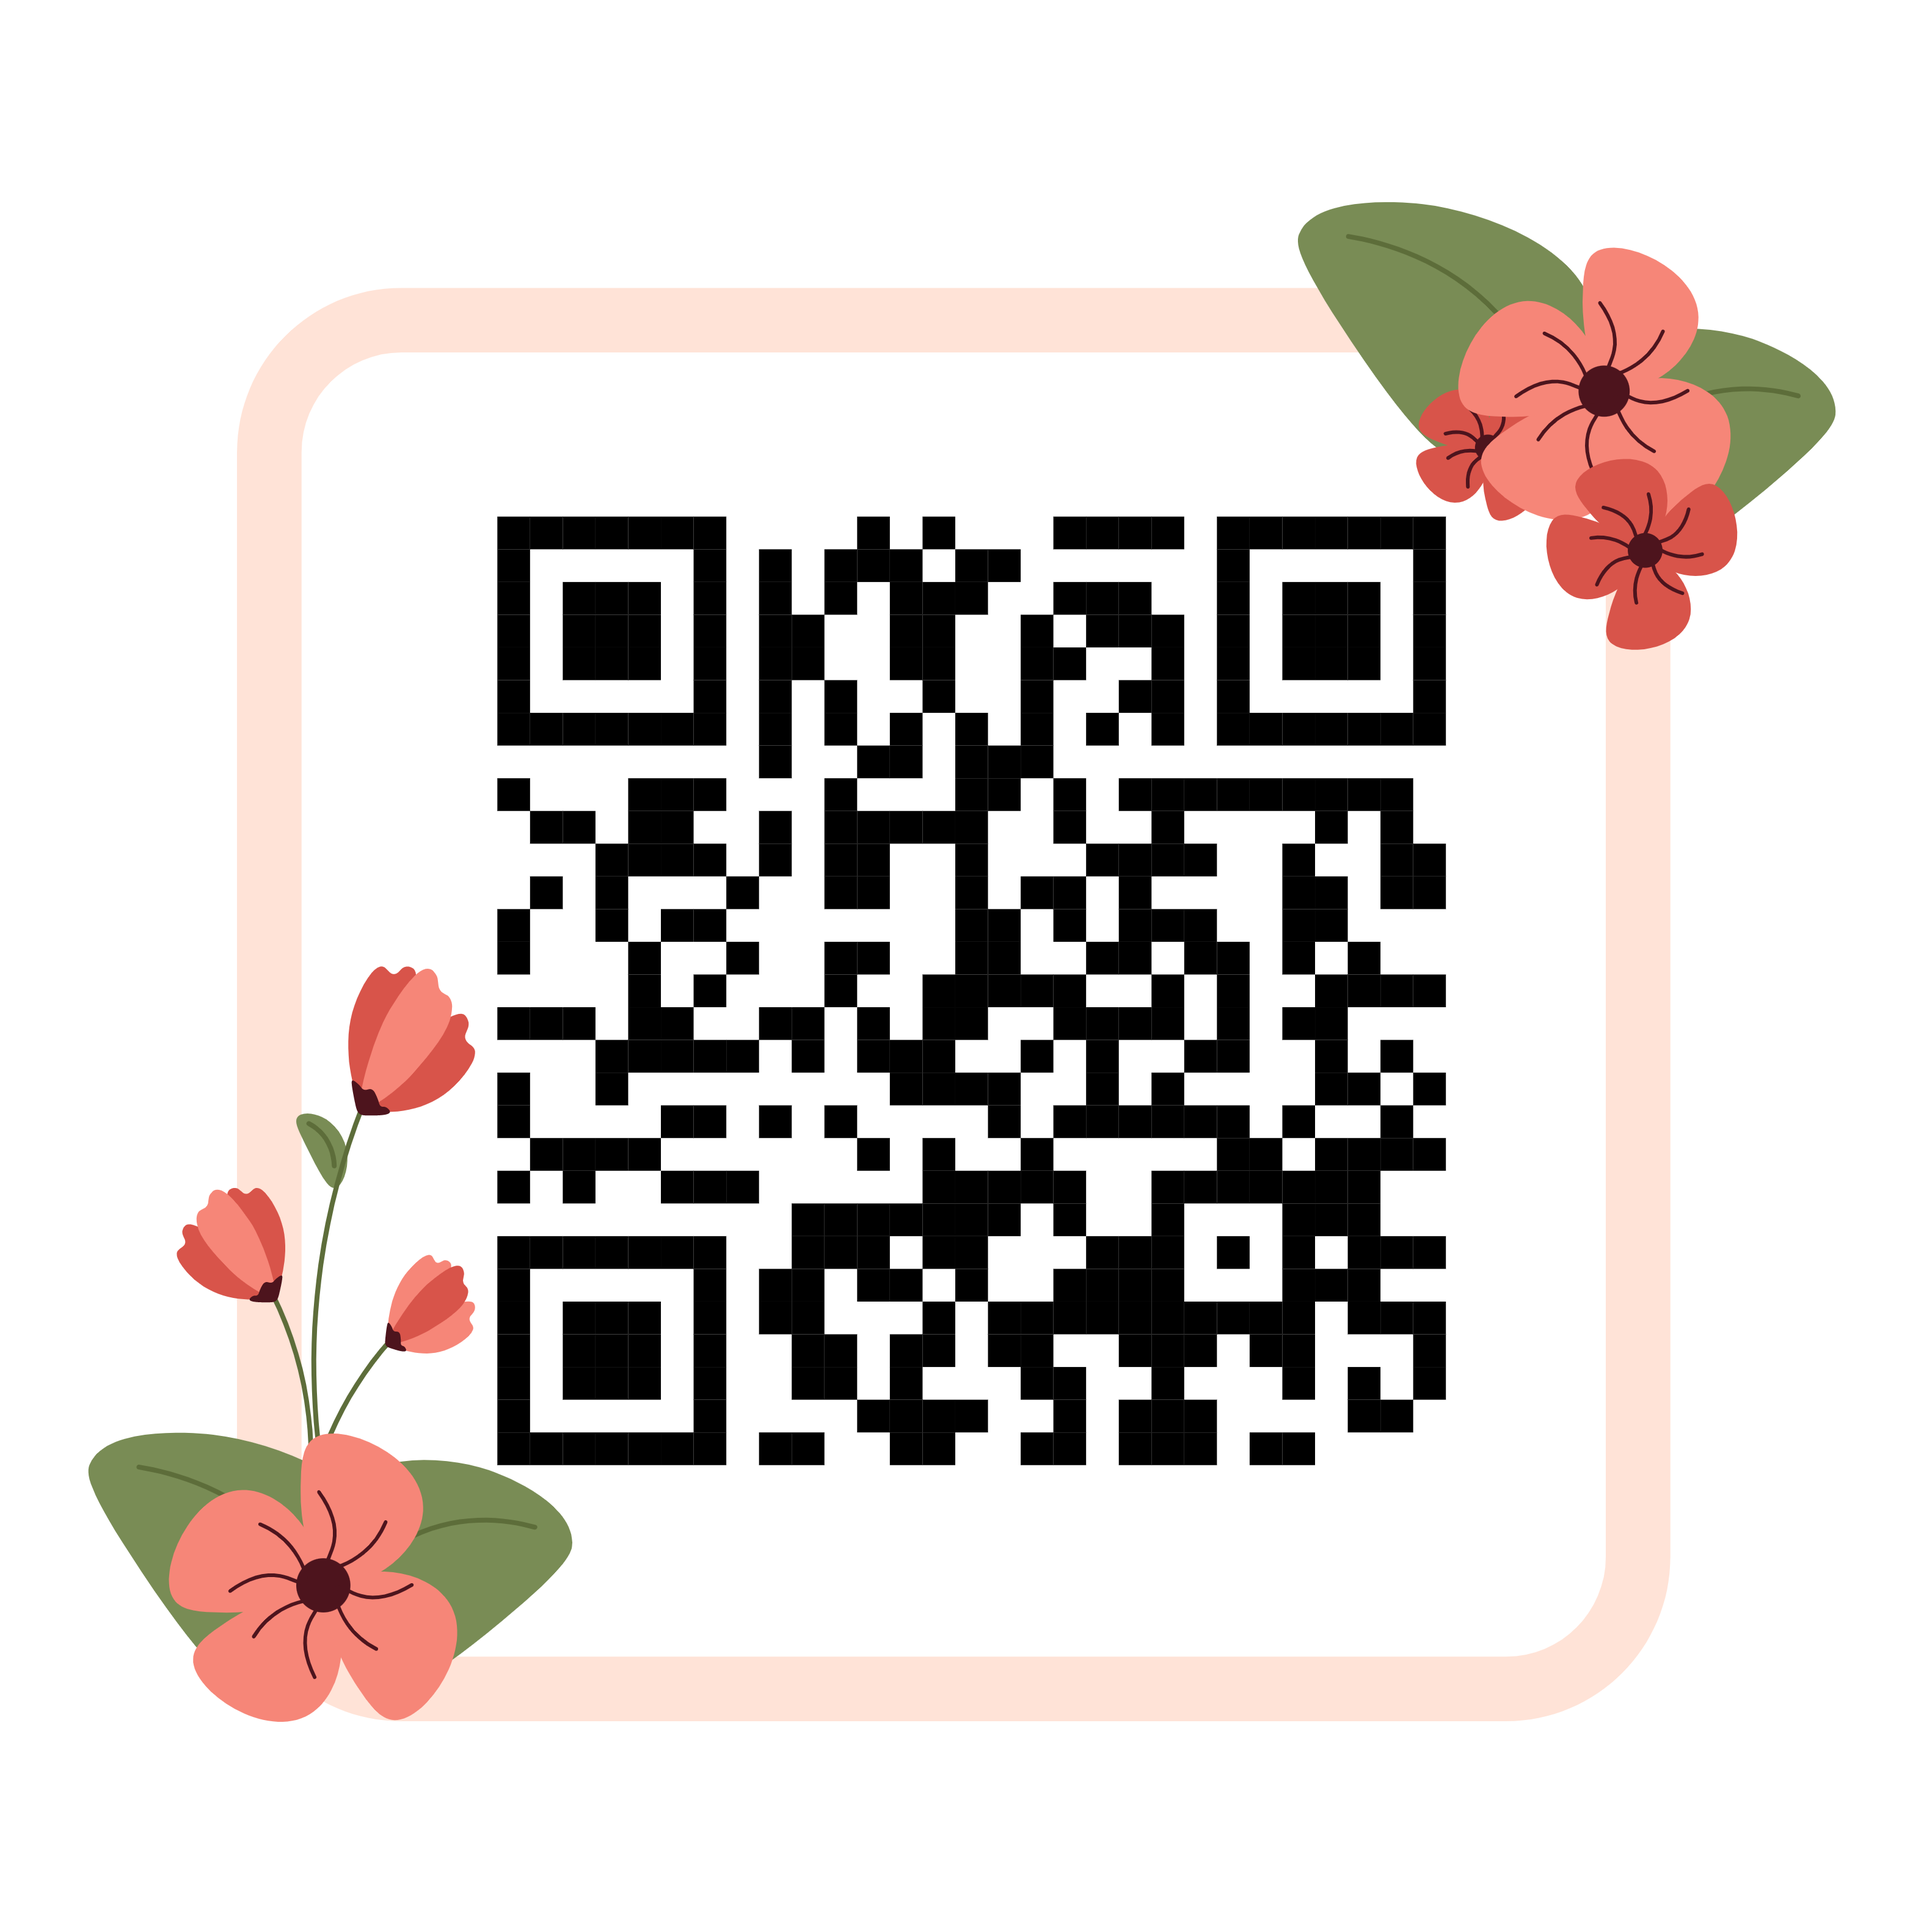
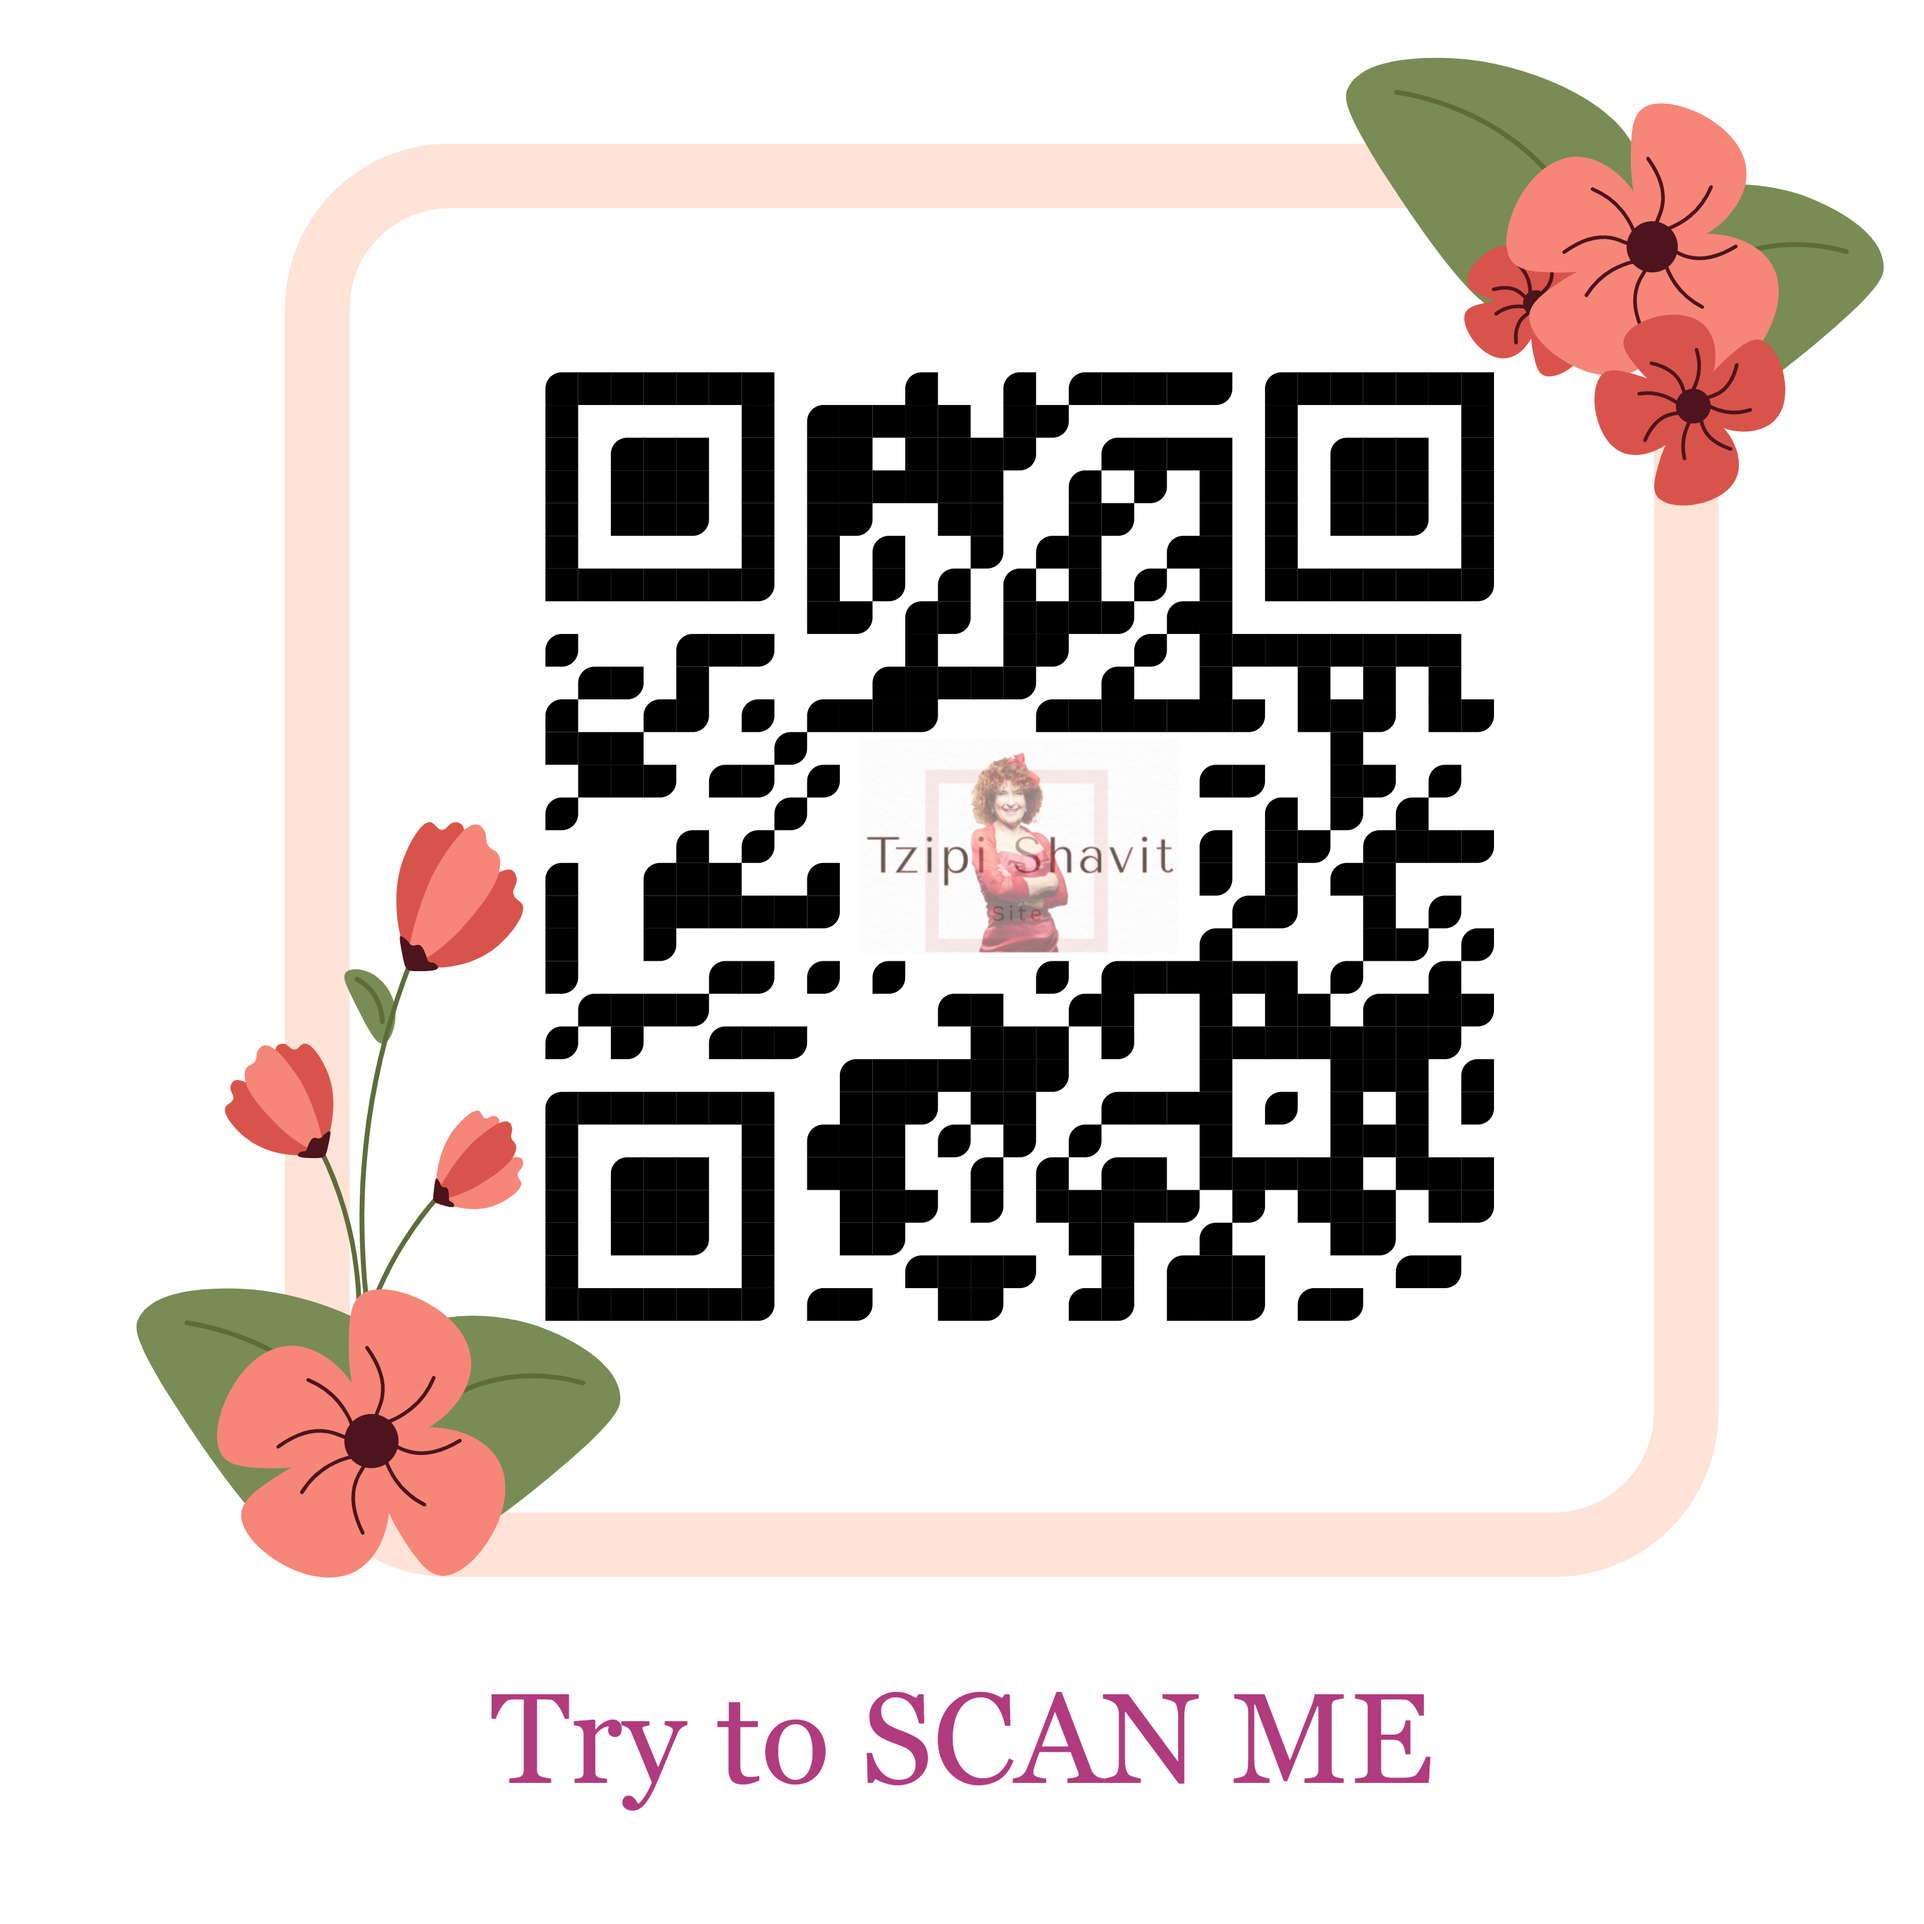
fix

diff --git a/index.html b/index.html
@@ -2,9 +2,15 @@
 <html>
 <head>
 <link rel="stylesheet" type="text/css" href="style.css" />
+<link rel="stylesheet" href="https://cdnjs.cloudflare.com/ajax/libs/emojionearea/3.4.2/emojionearea.min.css" />
 </head>
 <body>
+<style>
+  body{
+    background-color:rgba(245, 218, 223, 0.454) ;
+  } </style>
 <div id="menu">
+<img class="img" src="pictures\logo.jpg">
 <li><a href="#about">About Me</a></li>
 <li><a href="#photos">My Photos</a></li>
 <li><a href="#playlist">My Playlist</a></li>
@@ -15,24 +21,104 @@
 </div>
 		  
 <section id="about" class="section">
+  <br/>
+  <br/>
+  <br/>
+  <br/>
 <div>
   <h1>
     About Me
   </h1>
 </div>
-<br/>
-<br/>
-<br/>
+<p dir="rtl">שלום לכולם, קוראים לי ציפי שביט, בעברית - ציפורה. אני שחקנית, קומיקאית, סטנדאפיסטית, מדבבת, זמרת, מנחת טלוויזיה וכוכבת ילדים (עושה הרבה בחיים...).
+  <br/>
+  נולדתי ב-1 באפריל בשנת 1947, ויש לי פרס מפעל חיים של האקדמיה הישראלית לקולנוע וטלוויזיה בתחום הילדים והנוער!
+  מקום הולדתי הוא קיבוץ נווה ים, אמא שלו זו לאורה ואבא שלי זה משה, משפחת שביט. 
+  <br/>
+  בצבא שירתתי בצוות הווי של פיקוד דרום, וזמן לא רב לאחר שחרורי, לאחר שהשתתפתי בסרט "השכונה שלנו", שיבץ אותי אברהם דשא (פשנל) בהצגת הבידור "דבר מצחיק קרה לי בסואץ" - זה היה בשנת 1968.
+  <br/>
+   זו הצגה שכתב המפיק שאול ביבר, אך היא ירדה בגלל מחאה של משפחה שכולה.
+  לאט לאט השתתפתי ביותר ויותר מופעים והצגות, אפילו פרסמתי תקליטים.
+  <br/>
+  החל מאמצע שנות ה-70, שנות ה-80 ובמהלך שנות ה-90 כבר נחשבתי לכוכבת ילדים גדולה ומצליחה בישראל! את חלקם מהתקליטים אתם בטח מכירים... בילבי,ציפי קונץ וכו'.
+  <br/>
+  אפילו השתתפתי ב5 פסטיגלים, והנחתי פעמיים. יש לי שיר שבטח כולכם תכירו - ברבאבא, אני אוהבת אותו מאוד!
+  <br/>
+  עד היום אני מככבת ואוהבת להצטלם ולהפיץ אור, אהבה ובעיקר שמחת חיים, שתמיד נזכה לטוב, ונעריך את החיים שלנו!
+</p>
 </section>
 
 <section id="photos" class="section">
-
+<br/>
+<br/>
 <br/>
 <br/>
 <div>
   <h1>
     My Photos
   </h1>
+  <p dir="rtl">
+    לחצו על מנת לפתוח את התמונות במסך חדש!
+  </p>
+  <div class="gallery">
+    <a target="_blank" href="pictures\me.jpg">
+      <img src="pictures\me.jpg" alt="Cinque Terre" width="600" height="400">
+    </a>
+    <div class="desc" style= "font-family:tahoma">אני בצילומים</div>
+  </div>
+  
+  <div class="gallery">
+    <a target="_blank" href="pictures\me2.jpg">
+      <img src="pictures\me2.jpg" alt="Forest" width="600" height="400">
+    </a>
+    <div class="desc" style= "font-family:tahoma">אני נחה במרפסת</div>
+  </div>
+  
+  <div class="gallery">
+    <a target="_blank" href="pictures\family.jpg">
+      <img src="pictures\family.jpg" alt="Northern Lights" width="600" height="400">
+    </a>
+    <div class="desc" style= "font-family:tahoma">אני עם בתי והנכדה</div>
+  </div>
+  
+  <div class="gallery">
+    <a target="_blank" href="pictures\family2.jpg">
+      <img src="pictures\family2.jpg" alt="Mountains" width="600" height="400">
+    </a>
+    <div class="desc" style= "font-family:tahoma">אני עם בתי והנכדה</div>
+  </div>
+  <div class="gallery">
+    <a target="_blank" href="pictures\family3.jpg">
+      <img src="pictures\family3.jpg" alt="Mountains" width="600" height="400">
+    </a>
+    <div class="desc" style= "font-family:tahoma">אני ונכדתי</div>
+  </div>
+  <div class="gallery">
+    <a target="_blank" href="pictures\friends.jpg">
+      <img src="pictures\friends.jpg" alt="Mountains" width="600" height="400">
+    </a>
+    <div class="desc" style= "font-family:tahoma">אני וחבריי מהחדשות</div>
+  </div>
+  <div class="gallery">
+    <a target="_blank" href="pictures\friends2.jpg">
+      <img src="pictures\friends2.jpg" alt="Mountains" width="600" height="400">
+    </a>
+    <div class="desc" style= "font-family:tahoma">אני וניב רסקין, אין כמוהו</div>
+  </div>
+  <div class="gallery">
+    <a target="_blank" href="pictures\friends3.jpg">
+      <img src="pictures\friends3.jpg" alt="Mountains" width="600" height="400">
+    </a>
+    <div class="desc" style= "font-family:tahoma"> אני וחיילי צה"ל האלופים</div>
+  </div>
+  <div class="gallery">
+    <a target="_blank" href="pictures\me3.jpg">
+      <img src="pictures\me3.jpg" alt="Mountains" width="600" height="400">
+    </a>
+    <div class="desc" style= "font-family:tahoma">אני לפני הופעה</div>
+  </div>
+  
+  
 </div>
 <br/>
 <br/>
@@ -41,12 +127,15 @@
 
 <section id="playlist" class="section">
 
-<div>
+<br/>
+<br/>
+  <br/>
+  <br/>
   <h1>
     My Playlist
   </h1>
-</div>
-<div class="playlist">
+
+<div >
   <p>
     <iframe width="900" height="600" src="https://www.youtube.com/embed/P5OPR-jpzww" title="YouTube video player" 
     frameborder="0" allow="accelerometer; autoplay; clipboard-write; encrypted-media; gyroscope; picture-in-picture; web-share" allowfullscreen>
@@ -56,28 +145,35 @@
 </section>
 
 <section id="like" class="section">
-
+  <br/>
+  <br/>
 <br/>
 <br/>
 <div>
   <h1>
-    Give Me A LIKE
+    Like
   </h1>
 </div>
 <div>
   <p>
+    <like>
+      Give me LIKE on facebook if you love my page!
+    </like>
+    <br/>
+    <br/>
   <iframe src="https://www.facebook.com/plugins/like.php?href=https%3A%2F%2Fwww.facebook.com%2FTzipiShavitOfficial&width=450&layout&action&size&share=true&height=35&appId" 
-  width="450" height="35" style="border:none;overflow:hidden" scrolling="no" frameborder="0" allowfullscreen="true" allow="autoplay; clipboard-write; encrypted-media; picture-in-picture; web-share"></iframe>
+     width="85" height="30" style="border:none;overflow:hidden" scrolling="no" frameborder="0" allowfullscreen="true" allow="autoplay; clipboard-write; encrypted-media; picture-in-picture; web-share"></iframe>
 </p>
 </div>
-<br/>
-<br/>
-<br/>
+<div>
+</div>
+
 </section>
 
 <section id="qrcoder" class="section">
-
-<br/>
+  <br/>
+  <br/>
+  <br/>
 <br/>
 <div>
   <h1>
@@ -89,40 +185,63 @@
     <img src=pictures\MySite.jpg width="500" height="500" />
   </p>
 </div>
-<br/>
-<br/>
-<br/>
+
 </section>
 
 <section id="spa" class="section">
-
-<br/>
+  <br/>
+  <br/>
+  <br/>
 <br/>
 <div>
   <h1>
     Ans
   </h1>
 </div>
-<br/>
-<br/>
-<br/>
 </section>
 
 <section id="contact" class="section">
-
+<form method="POST" action="mailto:galperav@post.bgu.ac.il" enctype="text/plain">
+<br/>
+<br/>
 <br/>
 <br/>
 <div>
   <h1>
     Contact Me
   </h1>
+  <p dir="rtl"> אם תרצו ליצור קשר, אם יש בעיה כלשהיא, או סתם כדי לדבר...
+    <br/>
+    מוזמנים לשלוח לי מייל!</p>
+  <p>  אנא מלאו את הפרטים מטה</p>
+  <contact class="contact">
+      <span>:שם פרטי</span>
+      <input id="First" type="text"  placeholder="Enter your First name" style="font-size: 20px; font-family:'Segoe UI'">
+      <br/>
+      <span>:שם משפחה</span>
+      <input id="Last" type="text" placeholder="Enter your Last name" style="font-size: 20px; font-family:'Segoe UI'" >
+      <br/>
+      <span>:כתובת הדואר האלקטרוני שלך</span>
+      <input id="Email" type="email" placeholder="Enter your Email" style="font-size: 20px; font-family:'Segoe UI'">
+      <br/>
+      <span>:תוכן הדואר</span>
+      <textarea id="Massage" placeholder="Enter your Message"></textarea>
+      <br/>
+      <button type="submit" style="font-size: 20px; font-family:'Segoe UI'">Submit</button>
+      <br/>
+      <br/>
+      </form>
+      <script src="https://code.jquery.com/jquery-3.6.0.js"></script>
+      <script src="https://cdnjs.cloudflare.com/ajax/libs/emojionearea/3.4.2/emojionearea.min.js"></script>
+      <script type="text/javascript">
+        $("#Massage").emojioneArea({
+          pickerPosition: 'button'
+        });
+      </script>
+
+  </contact>
 </div>
 <div>
-  <p>
-    <form method="post">
-      <input type="submit" name="contact" value="צרו קשר">
-    </form>
-  </p>
 </div>
 <br/>
 <br/>

diff --git a/style.css b/style.css
@@ -2,10 +2,18 @@
 {
 	position: fixed;
 	width: 120%;
-	height: 50px;
+	height: 100px;
+	overflow: hidden;
 	background: rgb(255, 185, 185);
 }
+.img
+{
+	position: fixed;
+	width: 110px;
+	height: 100px;	
+	text-align: left;
 
+}
 #menu a
 {
 	font-family: 'Segoe UI', Tahoma, Geneva, Verdana, sans-serif;
@@ -21,7 +29,8 @@
 #menu li
 {
 	display: inline-block;
-	margin-left: 100px;
+	margin-left: 105px;
+	margin-top: 35px;
 	color: black;
 	letter-spacing:2px;
 	height: 1px;
@@ -81,6 +90,7 @@ p
 	font-size: 20px;
 	text-align: center;
 	color: #5c5757;
+
 	
 	
 }
@@ -89,3 +99,61 @@ p
 	padding-bottom: 5px;
 
 }
+.like
+{
+	font-family: 'Segoe UI', Tahoma, Geneva, Verdana, sans-serif;
+	grid-gap: 15px;
+	font-weight: 400;
+	font-size: 20px;
+	text-align: center;
+	position: absolute;
+
+}
+
+.contact
+{
+	font-family: 'Segoe UI', Tahoma, Geneva, Verdana, sans-serif;
+
+	font-weight: 100;
+	font-size: 20px;
+    padding: 5%;
+    margin: 2%;
+
+    display: flex;
+    justify-content: center;
+    align-items: center;
+	flex-direction: column;
+
+
+}
+.textt{
+	border: 2px solid black;
+	width: 360px;
+	height: 100px;
+	overflow: auto;
+}
+
+  
+
+div.gallery {
+	opacity: 0.7;
+	margin: 5px;
+	border: 1px solid #ccc;
+	float: left;
+	width: 180px;
+  }
+  
+  div.gallery:hover {
+	opacity: 1;
+	border: 1px solid #777;
+  }
+  
+  div.gallery img {
+	width: 100%;
+	height: auto;
+  }
+  
+  div.desc {
+	padding: 15px;
+	text-align: center;
+  }
